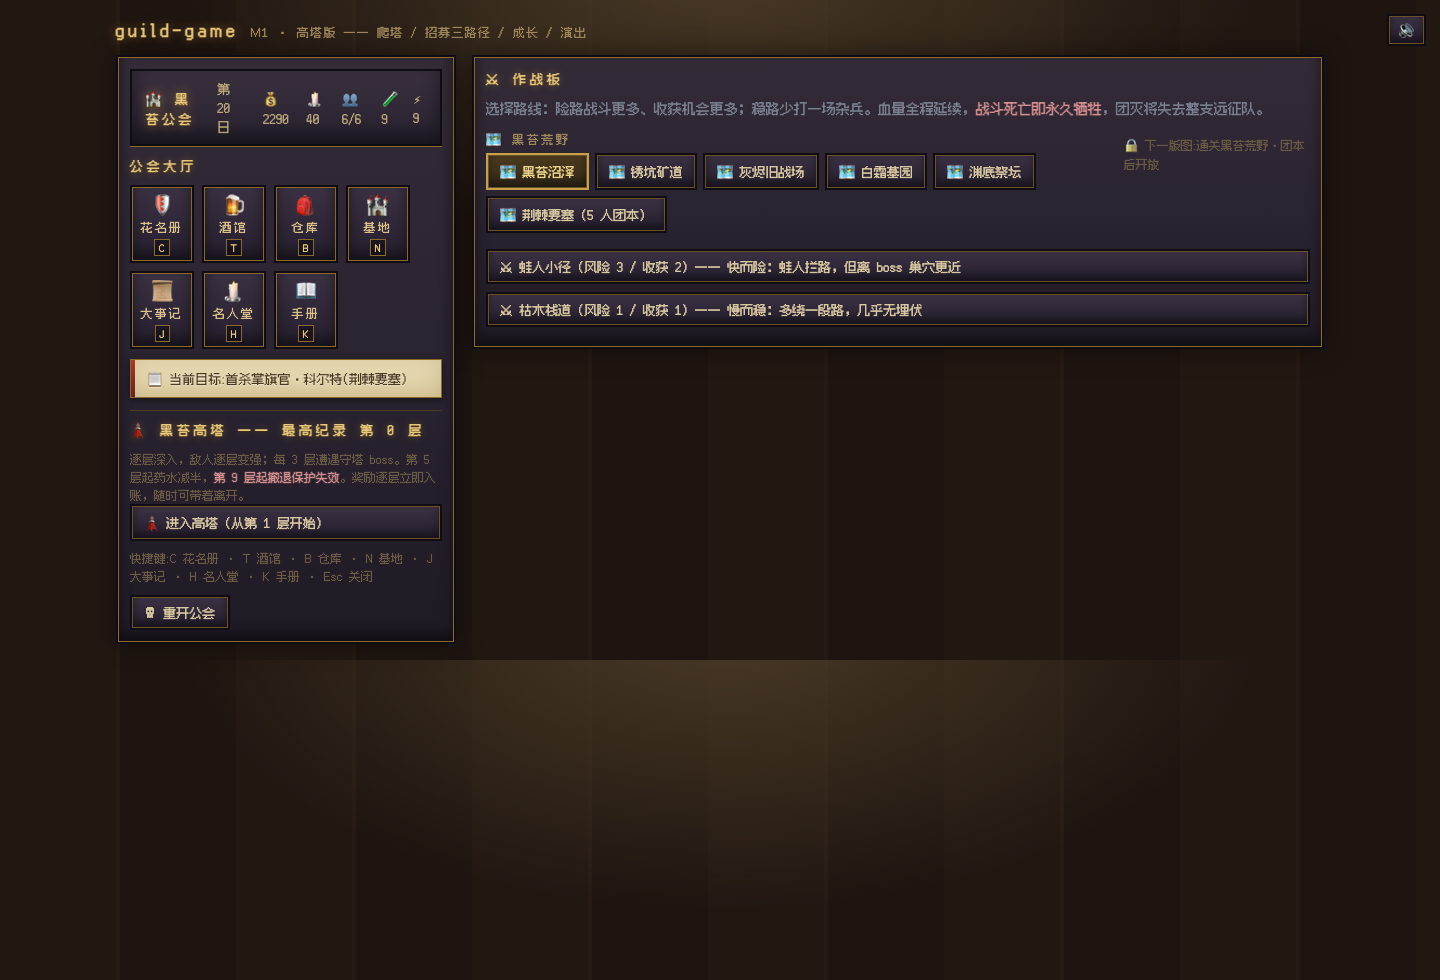
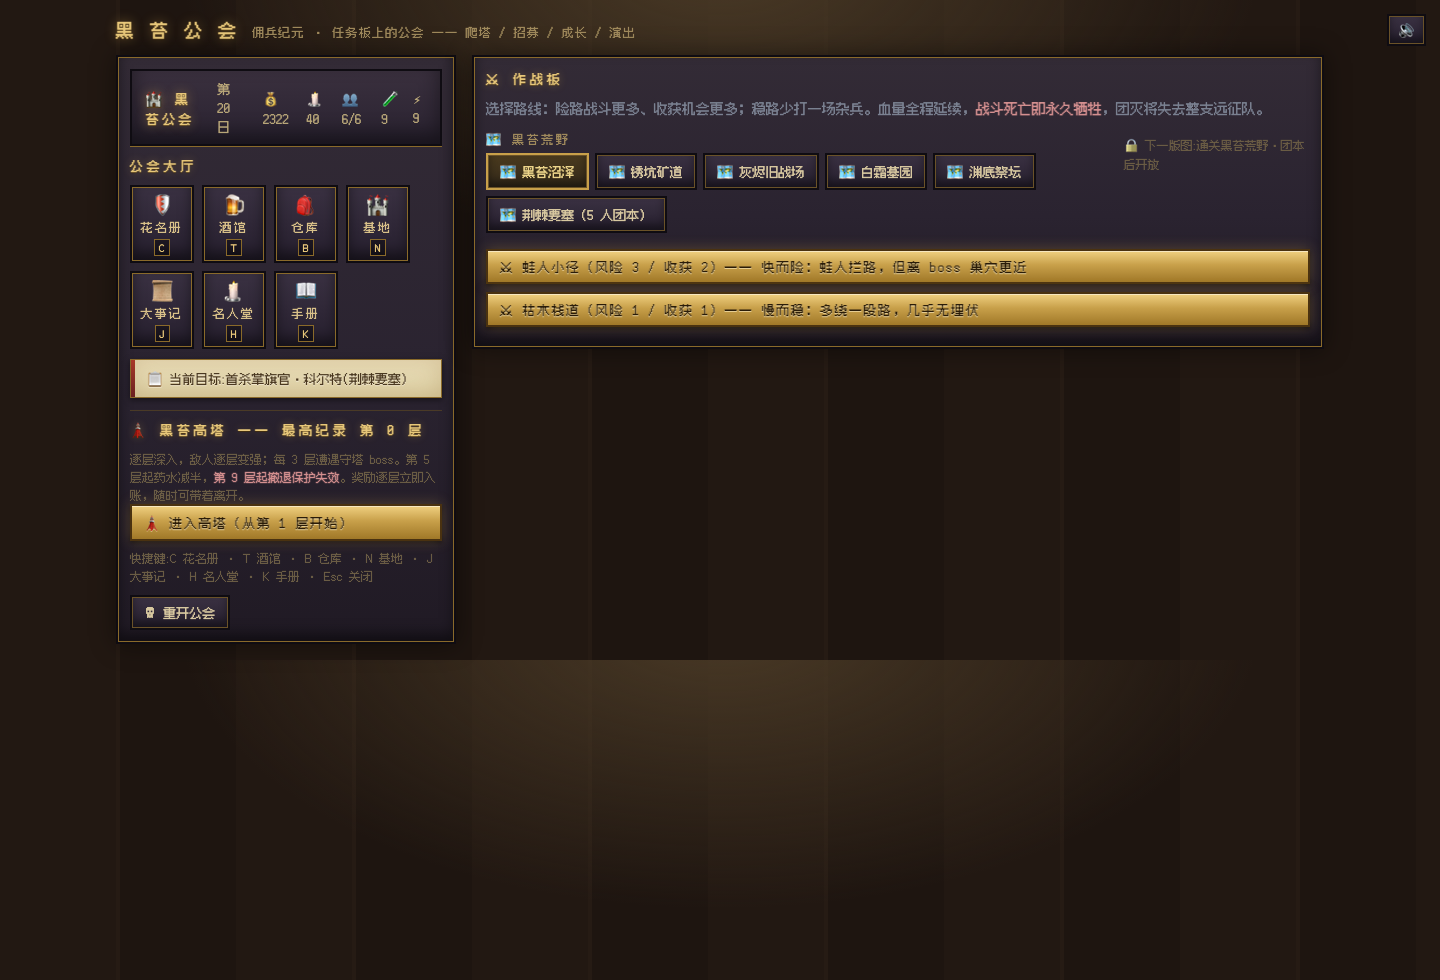
feat: UI换皮第二批——战斗舞台背景石暖色(BattleRenderer 0x1c1410)+品牌字改「黑苔公会·佣兵纪元」+主行动按钮鎏金分级(primary:路线/进塔/继续深入)+art-samples 验收截图更新;37门禁绿

Changed region(s): [[0.3125, 0.2449, 0.9062, 0.3367], [0.0625, 0.4898, 0.3125, 0.551], [0.0625, 0.0, 0.3438, 0.0612]]

diff --git a/src/App.tsx b/src/App.tsx
@@ -1157,8 +1157,8 @@ export default function App() {
         {muted ? '🔇' : '🔊'}
       </button>
       <div className="app-header">
-        <h1>guild-game</h1>
-        <span className="slice-tag">M1 · 高塔版 —— 爬塔 / 招募三路径 / 成长 / 演出</span>
+        <h1>黑 苔 公 会</h1>
+        <span className="slice-tag">佣兵纪元 · 任务板上的公会 —— 爬塔 / 招募 / 成长 / 演出</span>
       </div>
       <div className="layout">
         <div className="panel hub-panel">
@@ -1202,7 +1202,7 @@ export default function App() {
               <b style={{ color: '#d48f8f' }}>第 9 层起撤退保护失效</b>。奖励逐层立即入账，随时可带着离开。
             </p>
             {towerUnlocked ? (
-              <button className="branch-btn" disabled={!canExpedition} onClick={enterTower}>
+              <button className="branch-btn primary" disabled={!canExpedition} onClick={enterTower}>
                 🗼 进入高塔（从第 1 层开始）
               </button>
             ) : (
@@ -1687,7 +1687,7 @@ export default function App() {
               {activeDungeon.branches.map((br) => (
                 <button
                   key={br.id}
-                  className="branch-btn"
+                  className="branch-btn primary"
                   disabled={!canExpedition}
                   onClick={() => startExpedition(br.id)}
                 >
@@ -2063,7 +2063,7 @@ export default function App() {
                 )
               })()}
               <div className="end-actions">
-                <button onClick={() => continueDeep()}>⬇ 继续深入</button>
+                <button className="primary" onClick={() => continueDeep()}>⬇ 继续深入</button>
                 <button onClick={retreat}>🏳 撤退回城</button>
               </div>
             </>

diff --git a/src/index.css b/src/index.css
@@ -130,6 +130,21 @@ button:hover:not(:disabled) {
 button:active:not(:disabled) { transform: translate(0, 1px); box-shadow: inset 0 1px 0 rgba(0, 0, 0, 0.5); }
 button:disabled { opacity: 0.4; cursor: default; }
 
+/* 主行动按钮 = 鎏金实体(样张 .btn-enter):出征/进塔/继续深入 */
+button.primary {
+  color: #2a1c08;
+  font-weight: 700;
+  letter-spacing: 0.12em;
+  background: linear-gradient(#f0d080, #c8a04a 45%, #a07828);
+  border: 2px solid #4a3210;
+  box-shadow: 0 0 14px rgba(230, 180, 80, 0.28), inset 0 1px 0 rgba(255, 255, 255, 0.5), 0 2px 4px rgba(0, 0, 0, 0.6);
+  text-shadow: 0 1px 0 rgba(255, 240, 200, 0.6);
+}
+button.primary:hover:not(:disabled) {
+  color: #1a1004;
+  box-shadow: 0 0 22px rgba(230, 180, 80, 0.5), inset 0 1px 0 rgba(255, 255, 255, 0.5), 0 2px 4px rgba(0, 0, 0, 0.6);
+}
+
 .result-banner {
   margin: 10px 0;
   padding: 10px;

diff --git a/src/ui/battle/BattleRenderer.ts b/src/ui/battle/BattleRenderer.ts
@@ -184,7 +184,7 @@ export class BattleRenderer {
     await app.init({
       width: W,
       height: H,
-      background: 0x14161c,
+      background: 0x1c1410,
       antialias: true,
       resolution: window.devicePixelRatio || 1,
       autoDensity: true,
